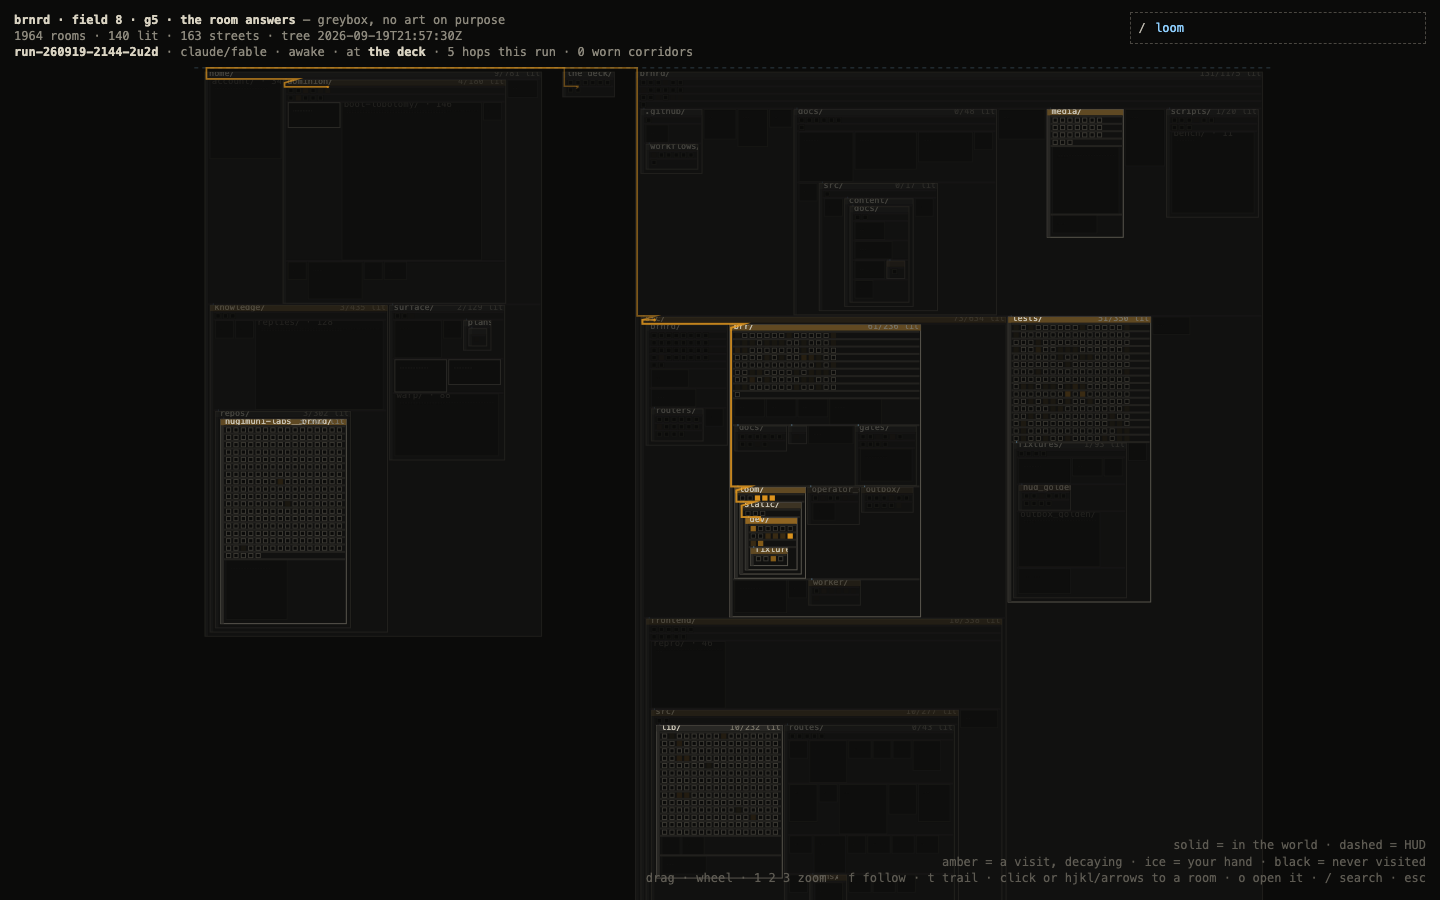
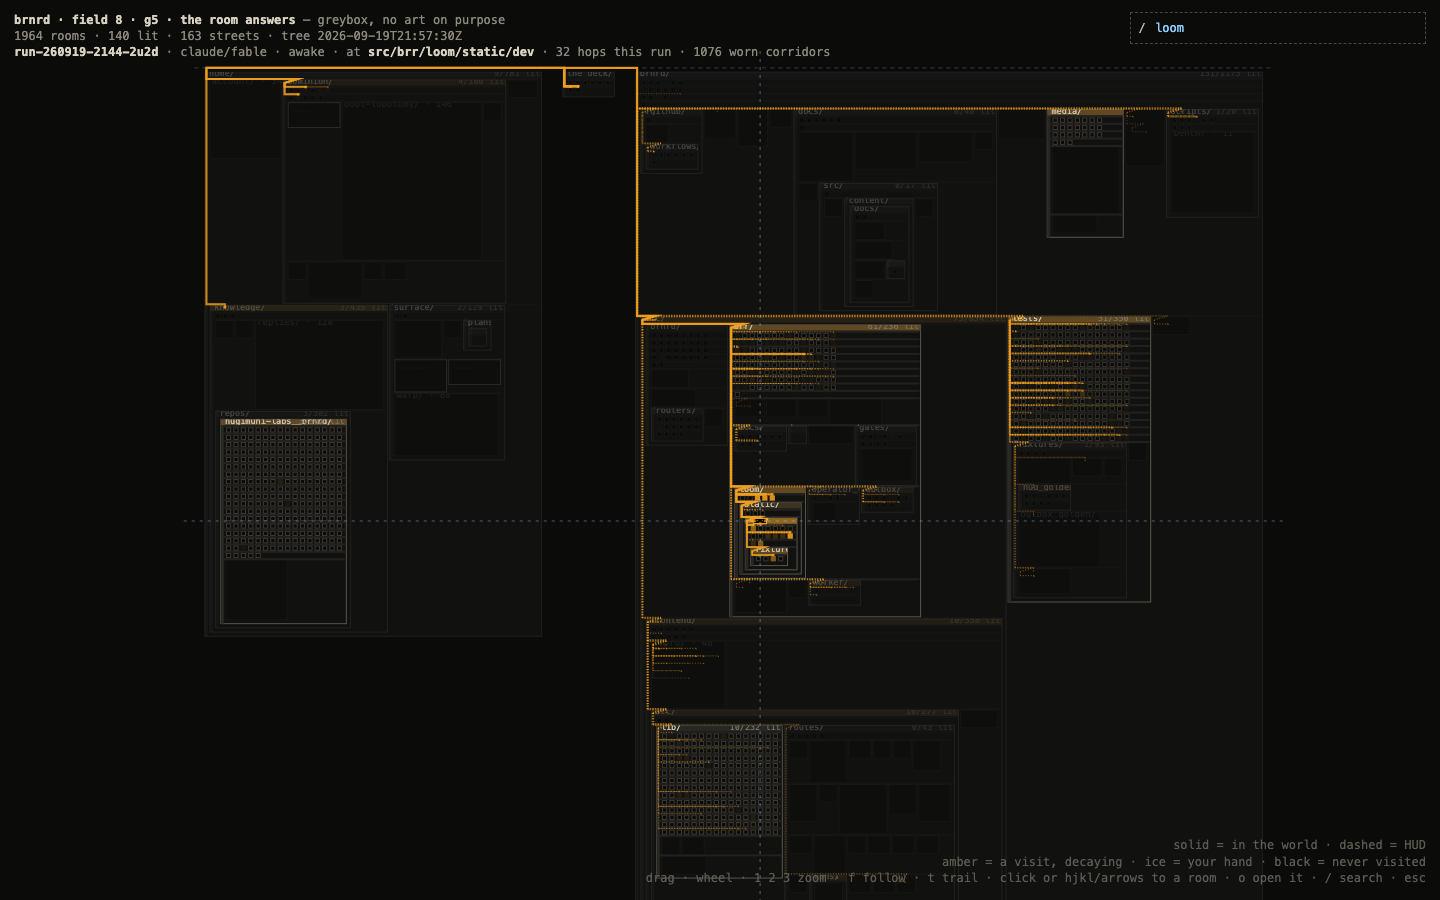
field 8 · g5: the second line comment that swallowed a declaration (CHUNKS) — driven again, the walk stays on its street
Brnrd-Run-Id: run-260919-2144-2u2d

diff --git a/src/brr/loom/static/dev/field8-gens.html b/src/brr/loom/static/dev/field8-gens.html
@@ -40,6 +40,7 @@ Serve: <code>PYTHONPATH=&lt;checkout&gt;/src python3 -m brr loom --port 7778</co
 <ul>
 <li>chunks whose file is outside the repo (a worktree, <code>/tmp</code>) carry no <code>rel</code> and index nowhere — the feed says so honestly, the ground cannot show them</li>
 <li>the home column is taller than the repo needs; <code>knowledge/repos/…</code> is one street that could be the home's own island</li>
+<li>the walk favours the street you are on, but from a street's <i>sign</i> it steps into the parent's rooms before its own — the sign should count as standing in the street</li>
 <li>the tree is a fixture; law 4 wants <code>/loom/tree.json</code> served by the daemon</li>
 <li>a strand's drone: the feed's <code>hud</code> is null on this daemon, so <code>b·w·d</code> has never been seen walking</li>
 </ul>

diff --git a/src/brr/loom/static/dev/field8-g5.html b/src/brr/loom/static/dev/field8-g5.html
@@ -75,7 +75,7 @@ const cv=document.getElementById('c'),cx=cv.getContext('2d');
 const hud=document.getElementById('hud'),plaque=document.getElementById('plaque'),srch=document.getElementById('search'),q=document.getElementById('q');
 let W=0,H=0,DPR=1,FOLLOW=false,TRAIL=true; const CAM={x:0,y:0,z:1,tz:1,tx:0,ty:0};
 let firstIngest=true,PAGE=null,S=null,T=null,ROOT=null,BY=new Map(),ALL=[],SEL=null,QUERY='',seen=-1,beatAt=0,BEAT=600;
-const drones=new Map(); const trail=[]; const wear=new Map(); const pings=[]; // {node,at} const CHUNKS=new Map(); // path → [{from,to,kind,n}] this run
+const drones=new Map(); const trail=[]; const wear=new Map(); const pings=[]; /* {node,t} */ const CHUNKS=new Map(); /* path → [{from,to,kind,n}] this run */
 
 // ---------- tree ----------
 function buildTree(files,rootName,rootPath){
